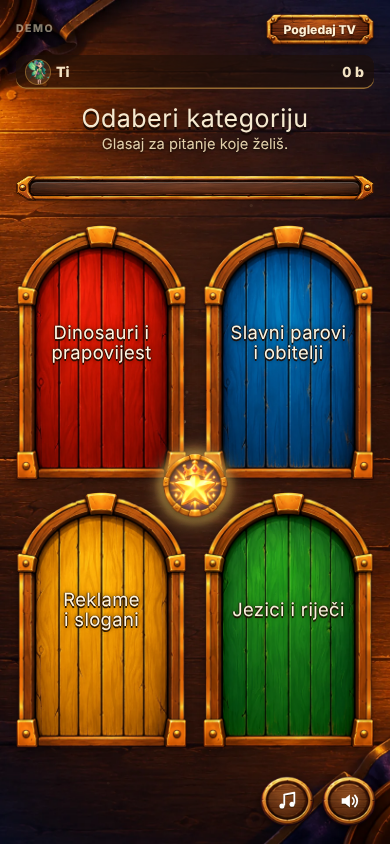
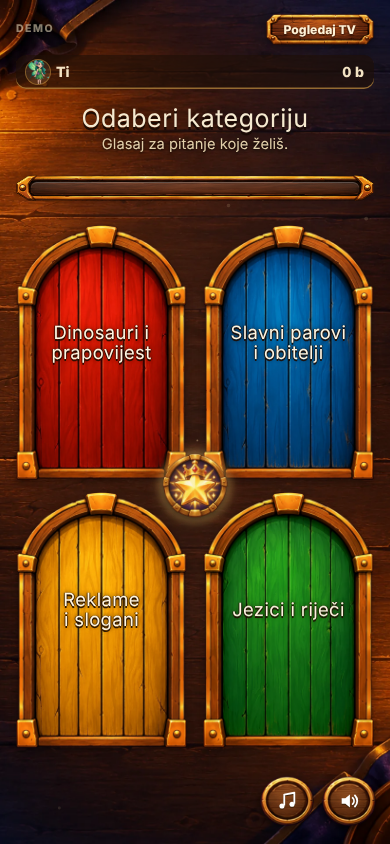
izvor: medaljon prirodnih boja, color-scheme dark only, v45
Claude-Session: https://claude.ai/code/session_01Hox85WhNuW9YNgDCoc2eez

Changed region(s): [[0.4, 0.5237, 0.6154, 0.6469]]

diff --git a/web/site/index.html b/web/site/index.html
@@ -2,10 +2,11 @@
 <html lang="hr">
 <head>
 <meta charset="utf-8">
-<meta http-equiv="Content-Security-Policy" content="default-src 'self'; script-src 'self' https://unpkg.com/peerjs@1.5.4/dist/peerjs.min.js 'sha256-Zl3tgS/eaxYVVpmxE8tHVTySUQ/d7DDtIubeYm/F9Uo=' 'sha256-I+TVg4yhrlsOOpfGfRumuWYNeGE1WwK1MsN3NkERkCk=' 'sha256-wyvvXqxLAZ3m7/jAoeI3NAIBNFS5G/udmg/sIXlWuQI='; style-src 'self' 'unsafe-inline' https://fonts.googleapis.com; font-src 'self' https://fonts.gstatic.com data:; img-src 'self' data: blob:; media-src 'self' data: blob:; worker-src 'self'; manifest-src 'self'; connect-src 'self' https://0.peerjs.com wss://0.peerjs.com wss://broker.emqx.io:8084 wss://broker.hivemq.com:8884 wss://test.mosquitto.org:8081 https://unpkg.com https://fonts.googleapis.com https://fonts.gstatic.com; object-src 'none'; base-uri 'none'; form-action 'none'; frame-src 'none'">
+<meta http-equiv="Content-Security-Policy" content="default-src 'self'; script-src 'self' https://unpkg.com/peerjs@1.5.4/dist/peerjs.min.js 'sha256-Zl3tgS/eaxYVVpmxE8tHVTySUQ/d7DDtIubeYm/F9Uo=' 'sha256-Al6xDhirKb41WRIYybmSSGGfc+Z3RFARvlyCmPHNsHI=' 'sha256-wyvvXqxLAZ3m7/jAoeI3NAIBNFS5G/udmg/sIXlWuQI='; style-src 'self' 'unsafe-inline' https://fonts.googleapis.com; font-src 'self' https://fonts.gstatic.com data:; img-src 'self' data: blob:; media-src 'self' data: blob:; worker-src 'self'; manifest-src 'self'; connect-src 'self' https://0.peerjs.com wss://0.peerjs.com wss://broker.emqx.io:8084 wss://broker.hivemq.com:8884 wss://test.mosquitto.org:8081 https://unpkg.com https://fonts.googleapis.com https://fonts.gstatic.com; object-src 'none'; base-uri 'none'; form-action 'none'; frame-src 'none'">
 <meta name="referrer" content="no-referrer">
 <meta name="viewport" content="width=device-width,initial-scale=1,viewport-fit=cover">
 <meta name="theme-color" content="#0a1433">
+<meta name="color-scheme" content="dark only">
 <meta name="description" content="Party kviz za TV i mobitele: likovi, moći, izazovi i utrka do vrha piramide.">
 <link rel="manifest" href="manifest.webmanifest">
 <link rel="icon" href="icon.svg" type="image/svg+xml">
@@ -2287,13 +2288,13 @@
   .door-btns { position: relative; }
   .pp-coin { position: absolute; left: 50%; top: 50%; transform: translate(-50%, -50%); z-index: 8; width: 64px; height: 64px; padding: 0; border: 0; border-radius: 50%; cursor: pointer; font-size: 0; color: transparent;
     -webkit-appearance: none; appearance: none; opacity: 1; -webkit-tap-highlight-color: transparent;
-    background: url("ui/pp-medal.webp") center / contain no-repeat; filter: brightness(1.12) saturate(1.2) drop-shadow(0 2px 2px rgba(0, 0, 0, 0.6)) drop-shadow(0 0 8px rgba(255, 214, 120, 0.85));
+    background: url("ui/pp-medal.webp") center / contain no-repeat; filter: drop-shadow(0 2px 2px rgba(0, 0, 0, 0.6)) drop-shadow(0 0 6px rgba(255, 214, 120, 0.55));
     animation: ppBob 2.2s ease-in-out infinite; }
   /* zlatni oreol iza medaljona: jasno daje do znanja da se može dodirnuti */
   .pp-coin::before { content: ""; position: absolute; inset: -9px; z-index: -1; border-radius: 50%; pointer-events: none;
-    background: radial-gradient(circle, rgba(255, 226, 150, 0.75) 0%, rgba(240, 190, 90, 0.4) 45%, rgba(240, 190, 90, 0) 70%); animation: ppHalo 1.6s ease-in-out infinite alternate; }
+    background: radial-gradient(circle, rgba(255, 226, 150, 0.4) 0%, rgba(240, 190, 90, 0.2) 45%, rgba(240, 190, 90, 0) 70%); animation: ppHalo 1.6s ease-in-out infinite alternate; }
   .pp-coin:active { transform: translate(-50%, -50%) scale(0.94); }
-  .pp-coin.on { animation: none; transform: translate(-50%, -50%) scale(1.12); filter: brightness(1.25) saturate(1.25) drop-shadow(0 2px 2px rgba(0, 0, 0, 0.6)) drop-shadow(0 0 16px rgba(255, 230, 160, 1)); }
+  .pp-coin.on { animation: none; transform: translate(-50%, -50%) scale(1.12); filter: brightness(1.1) drop-shadow(0 2px 2px rgba(0, 0, 0, 0.6)) drop-shadow(0 0 16px rgba(255, 230, 160, 1)); }
   .pp-coin.on::before { inset: -14px; animation: none; opacity: 1; background: radial-gradient(circle, rgba(255, 240, 190, 0.95) 0%, rgba(255, 205, 110, 0.55) 45%, rgba(255, 205, 110, 0) 72%); }
   @keyframes ppBob { 0%, 100% { transform: translate(-50%, -50%) scale(1); } 50% { transform: translate(-50%, -50%) scale(1.07); } }
   @keyframes ppHalo { from { opacity: 0.55; } to { opacity: 1; } }
@@ -6724,7 +6725,7 @@ function createGame(o) {
           '<div class="home-sec"><button class="btn ghost" id="host">Otvori na TV-u</button><button class="btn ghost" id="join">Pridruži se igri</button></div>' +
           '<div class="home-try"><span class="home-sep">Isprobaj igru</span><button class="home-link" id="demo">Igraj protiv botova</button>' + install + '</div>' +
         '</div>' +
-        '<div class="home-foot">' + status + '<span class="home-ver">v44</span></div>' +
+        '<div class="home-foot">' + status + '<span class="home-ver">v45</span></div>' +
       '</div>';
     bind('host', startHost); bind('join', () => { mode = 'join'; render(); }); bind('demo', startDemo);
     bind('hostp', () => { hostErr = ''; mode = 'hostform'; render(); });

diff --git a/v3/out.html b/v3/out.html
@@ -2277,13 +2277,13 @@
   .door-btns { position: relative; }
   .pp-coin { position: absolute; left: 50%; top: 50%; transform: translate(-50%, -50%); z-index: 8; width: 64px; height: 64px; padding: 0; border: 0; border-radius: 50%; cursor: pointer; font-size: 0; color: transparent;
     -webkit-appearance: none; appearance: none; opacity: 1; -webkit-tap-highlight-color: transparent;
-    background: url("ui/pp-medal.webp") center / contain no-repeat; filter: brightness(1.12) saturate(1.2) drop-shadow(0 2px 2px rgba(0, 0, 0, 0.6)) drop-shadow(0 0 8px rgba(255, 214, 120, 0.85));
+    background: url("ui/pp-medal.webp") center / contain no-repeat; filter: drop-shadow(0 2px 2px rgba(0, 0, 0, 0.6)) drop-shadow(0 0 6px rgba(255, 214, 120, 0.55));
     animation: ppBob 2.2s ease-in-out infinite; }
   /* zlatni oreol iza medaljona: jasno daje do znanja da se može dodirnuti */
   .pp-coin::before { content: ""; position: absolute; inset: -9px; z-index: -1; border-radius: 50%; pointer-events: none;
-    background: radial-gradient(circle, rgba(255, 226, 150, 0.75) 0%, rgba(240, 190, 90, 0.4) 45%, rgba(240, 190, 90, 0) 70%); animation: ppHalo 1.6s ease-in-out infinite alternate; }
+    background: radial-gradient(circle, rgba(255, 226, 150, 0.4) 0%, rgba(240, 190, 90, 0.2) 45%, rgba(240, 190, 90, 0) 70%); animation: ppHalo 1.6s ease-in-out infinite alternate; }
   .pp-coin:active { transform: translate(-50%, -50%) scale(0.94); }
-  .pp-coin.on { animation: none; transform: translate(-50%, -50%) scale(1.12); filter: brightness(1.25) saturate(1.25) drop-shadow(0 2px 2px rgba(0, 0, 0, 0.6)) drop-shadow(0 0 16px rgba(255, 230, 160, 1)); }
+  .pp-coin.on { animation: none; transform: translate(-50%, -50%) scale(1.12); filter: brightness(1.1) drop-shadow(0 2px 2px rgba(0, 0, 0, 0.6)) drop-shadow(0 0 16px rgba(255, 230, 160, 1)); }
   .pp-coin.on::before { inset: -14px; animation: none; opacity: 1; background: radial-gradient(circle, rgba(255, 240, 190, 0.95) 0%, rgba(255, 205, 110, 0.55) 45%, rgba(255, 205, 110, 0) 72%); }
   @keyframes ppBob { 0%, 100% { transform: translate(-50%, -50%) scale(1); } 50% { transform: translate(-50%, -50%) scale(1.07); } }
   @keyframes ppHalo { from { opacity: 0.55; } to { opacity: 1; } }

diff --git a/v4/page.html b/v4/page.html
@@ -2276,13 +2276,13 @@
   .door-btns { position: relative; }
   .pp-coin { position: absolute; left: 50%; top: 50%; transform: translate(-50%, -50%); z-index: 8; width: 64px; height: 64px; padding: 0; border: 0; border-radius: 50%; cursor: pointer; font-size: 0; color: transparent;
     -webkit-appearance: none; appearance: none; opacity: 1; -webkit-tap-highlight-color: transparent;
-    background: url("ui/pp-medal.webp") center / contain no-repeat; filter: brightness(1.12) saturate(1.2) drop-shadow(0 2px 2px rgba(0, 0, 0, 0.6)) drop-shadow(0 0 8px rgba(255, 214, 120, 0.85));
+    background: url("ui/pp-medal.webp") center / contain no-repeat; filter: drop-shadow(0 2px 2px rgba(0, 0, 0, 0.6)) drop-shadow(0 0 6px rgba(255, 214, 120, 0.55));
     animation: ppBob 2.2s ease-in-out infinite; }
   /* zlatni oreol iza medaljona: jasno daje do znanja da se može dodirnuti */
   .pp-coin::before { content: ""; position: absolute; inset: -9px; z-index: -1; border-radius: 50%; pointer-events: none;
-    background: radial-gradient(circle, rgba(255, 226, 150, 0.75) 0%, rgba(240, 190, 90, 0.4) 45%, rgba(240, 190, 90, 0) 70%); animation: ppHalo 1.6s ease-in-out infinite alternate; }
+    background: radial-gradient(circle, rgba(255, 226, 150, 0.4) 0%, rgba(240, 190, 90, 0.2) 45%, rgba(240, 190, 90, 0) 70%); animation: ppHalo 1.6s ease-in-out infinite alternate; }
   .pp-coin:active { transform: translate(-50%, -50%) scale(0.94); }
-  .pp-coin.on { animation: none; transform: translate(-50%, -50%) scale(1.12); filter: brightness(1.25) saturate(1.25) drop-shadow(0 2px 2px rgba(0, 0, 0, 0.6)) drop-shadow(0 0 16px rgba(255, 230, 160, 1)); }
+  .pp-coin.on { animation: none; transform: translate(-50%, -50%) scale(1.12); filter: brightness(1.1) drop-shadow(0 2px 2px rgba(0, 0, 0, 0.6)) drop-shadow(0 0 16px rgba(255, 230, 160, 1)); }
   .pp-coin.on::before { inset: -14px; animation: none; opacity: 1; background: radial-gradient(circle, rgba(255, 240, 190, 0.95) 0%, rgba(255, 205, 110, 0.55) 45%, rgba(255, 205, 110, 0) 72%); }
   @keyframes ppBob { 0%, 100% { transform: translate(-50%, -50%) scale(1); } 50% { transform: translate(-50%, -50%) scale(1.07); } }
   @keyframes ppHalo { from { opacity: 0.55; } to { opacity: 1; } }

diff --git a/web/body.html b/web/body.html
@@ -2276,13 +2276,13 @@
   .door-btns { position: relative; }
   .pp-coin { position: absolute; left: 50%; top: 50%; transform: translate(-50%, -50%); z-index: 8; width: 64px; height: 64px; padding: 0; border: 0; border-radius: 50%; cursor: pointer; font-size: 0; color: transparent;
     -webkit-appearance: none; appearance: none; opacity: 1; -webkit-tap-highlight-color: transparent;
-    background: url("ui/pp-medal.webp") center / contain no-repeat; filter: brightness(1.12) saturate(1.2) drop-shadow(0 2px 2px rgba(0, 0, 0, 0.6)) drop-shadow(0 0 8px rgba(255, 214, 120, 0.85));
+    background: url("ui/pp-medal.webp") center / contain no-repeat; filter: drop-shadow(0 2px 2px rgba(0, 0, 0, 0.6)) drop-shadow(0 0 6px rgba(255, 214, 120, 0.55));
     animation: ppBob 2.2s ease-in-out infinite; }
   /* zlatni oreol iza medaljona: jasno daje do znanja da se može dodirnuti */
   .pp-coin::before { content: ""; position: absolute; inset: -9px; z-index: -1; border-radius: 50%; pointer-events: none;
-    background: radial-gradient(circle, rgba(255, 226, 150, 0.75) 0%, rgba(240, 190, 90, 0.4) 45%, rgba(240, 190, 90, 0) 70%); animation: ppHalo 1.6s ease-in-out infinite alternate; }
+    background: radial-gradient(circle, rgba(255, 226, 150, 0.4) 0%, rgba(240, 190, 90, 0.2) 45%, rgba(240, 190, 90, 0) 70%); animation: ppHalo 1.6s ease-in-out infinite alternate; }
   .pp-coin:active { transform: translate(-50%, -50%) scale(0.94); }
-  .pp-coin.on { animation: none; transform: translate(-50%, -50%) scale(1.12); filter: brightness(1.25) saturate(1.25) drop-shadow(0 2px 2px rgba(0, 0, 0, 0.6)) drop-shadow(0 0 16px rgba(255, 230, 160, 1)); }
+  .pp-coin.on { animation: none; transform: translate(-50%, -50%) scale(1.12); filter: brightness(1.1) drop-shadow(0 2px 2px rgba(0, 0, 0, 0.6)) drop-shadow(0 0 16px rgba(255, 230, 160, 1)); }
   .pp-coin.on::before { inset: -14px; animation: none; opacity: 1; background: radial-gradient(circle, rgba(255, 240, 190, 0.95) 0%, rgba(255, 205, 110, 0.55) 45%, rgba(255, 205, 110, 0) 72%); }
   @keyframes ppBob { 0%, 100% { transform: translate(-50%, -50%) scale(1); } 50% { transform: translate(-50%, -50%) scale(1.07); } }
   @keyframes ppHalo { from { opacity: 0.55; } to { opacity: 1; } }

diff --git a/v4/pp.css b/v4/pp.css
@@ -16,13 +16,13 @@
   .door-btns { position: relative; }
   .pp-coin { position: absolute; left: 50%; top: 50%; transform: translate(-50%, -50%); z-index: 8; width: 64px; height: 64px; padding: 0; border: 0; border-radius: 50%; cursor: pointer; font-size: 0; color: transparent;
     -webkit-appearance: none; appearance: none; opacity: 1; -webkit-tap-highlight-color: transparent;
-    background: url("ui/pp-medal.webp") center / contain no-repeat; filter: brightness(1.12) saturate(1.2) drop-shadow(0 2px 2px rgba(0, 0, 0, 0.6)) drop-shadow(0 0 8px rgba(255, 214, 120, 0.85));
+    background: url("ui/pp-medal.webp") center / contain no-repeat; filter: drop-shadow(0 2px 2px rgba(0, 0, 0, 0.6)) drop-shadow(0 0 6px rgba(255, 214, 120, 0.55));
     animation: ppBob 2.2s ease-in-out infinite; }
   /* zlatni oreol iza medaljona: jasno daje do znanja da se može dodirnuti */
   .pp-coin::before { content: ""; position: absolute; inset: -9px; z-index: -1; border-radius: 50%; pointer-events: none;
-    background: radial-gradient(circle, rgba(255, 226, 150, 0.75) 0%, rgba(240, 190, 90, 0.4) 45%, rgba(240, 190, 90, 0) 70%); animation: ppHalo 1.6s ease-in-out infinite alternate; }
+    background: radial-gradient(circle, rgba(255, 226, 150, 0.4) 0%, rgba(240, 190, 90, 0.2) 45%, rgba(240, 190, 90, 0) 70%); animation: ppHalo 1.6s ease-in-out infinite alternate; }
   .pp-coin:active { transform: translate(-50%, -50%) scale(0.94); }
-  .pp-coin.on { animation: none; transform: translate(-50%, -50%) scale(1.12); filter: brightness(1.25) saturate(1.25) drop-shadow(0 2px 2px rgba(0, 0, 0, 0.6)) drop-shadow(0 0 16px rgba(255, 230, 160, 1)); }
+  .pp-coin.on { animation: none; transform: translate(-50%, -50%) scale(1.12); filter: brightness(1.1) drop-shadow(0 2px 2px rgba(0, 0, 0, 0.6)) drop-shadow(0 0 16px rgba(255, 230, 160, 1)); }
   .pp-coin.on::before { inset: -14px; animation: none; opacity: 1; background: radial-gradient(circle, rgba(255, 240, 190, 0.95) 0%, rgba(255, 205, 110, 0.55) 45%, rgba(255, 205, 110, 0) 72%); }
   @keyframes ppBob { 0%, 100% { transform: translate(-50%, -50%) scale(1); } 50% { transform: translate(-50%, -50%) scale(1.07); } }
   @keyframes ppHalo { from { opacity: 0.55; } to { opacity: 1; } }

diff --git a/web/site/sw.js b/web/site/sw.js
@@ -1,5 +1,5 @@
 // Mozgalica: uvijek pokušaj mrežu, a bez interneta posluži zadnju spremljenu verziju.
-const CACHE = 'mozgalica-v44';
+const CACHE = 'mozgalica-v45';
 const CORE = ['./', './index.html', './manifest.webmanifest', './icon-192.png', './icon-512.png', './icon.svg', './vendor/qrcode.js'];
 self.addEventListener('install', (e) => {
   e.waitUntil(caches.open(CACHE).then((c) => c.addAll(CORE)).then(() => self.skipWaiting()));

diff --git a/web/assemble.py b/web/assemble.py
@@ -30,12 +30,13 @@ sw = """
 html = ('<!doctype html>\n<html lang="hr">\n<head>\n<meta charset="utf-8">\n'
         '<meta name="viewport" content="width=device-width,initial-scale=1,viewport-fit=cover">\n'
         '<meta name="theme-color" content="#0a1433">\n'
+        '<meta name="color-scheme" content="dark only">\n'
         '<meta name="description" content="Party kviz za TV i mobitele: likovi, moći, izazovi i utrka do vrha piramide.">\n'
         '<link rel="manifest" href="manifest.webmanifest">\n'
         '<link rel="icon" href="icon.svg" type="image/svg+xml">\n'
         '<link rel="apple-touch-icon" href="icon-192.png">\n'
         + head_part.rstrip() + '\n</head>\n<body>\n' + rest.rstrip() + '\n' + sw + '</body>\n</html>\n')
-VERSION = 'v44'
+VERSION = 'v45'
 html = html.replace('MOZGALICA', '<span class="lt">Trivia</span><span class="lt">Tavern</span>').replace('<title>Mozgalica</title>', '<title>Trivia Tavern</title>')
 assert html.count('__VER__') == 1
 html = html.replace('__VER__', VERSION)
